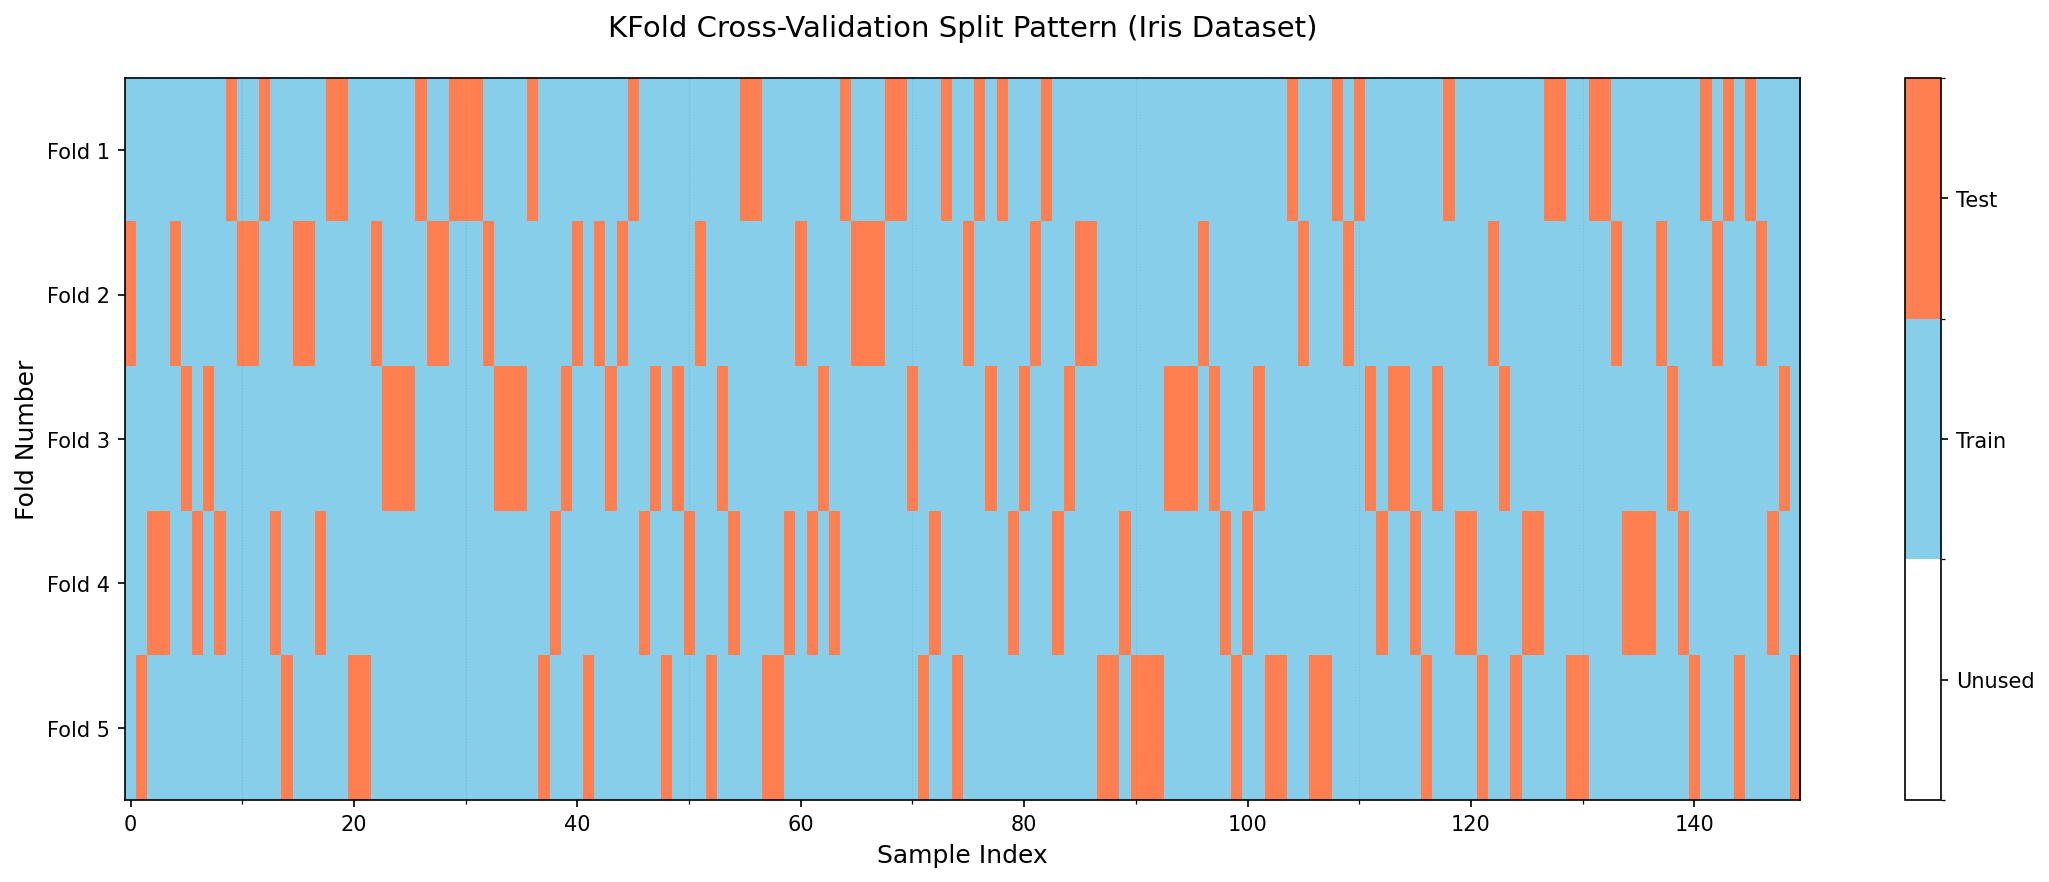
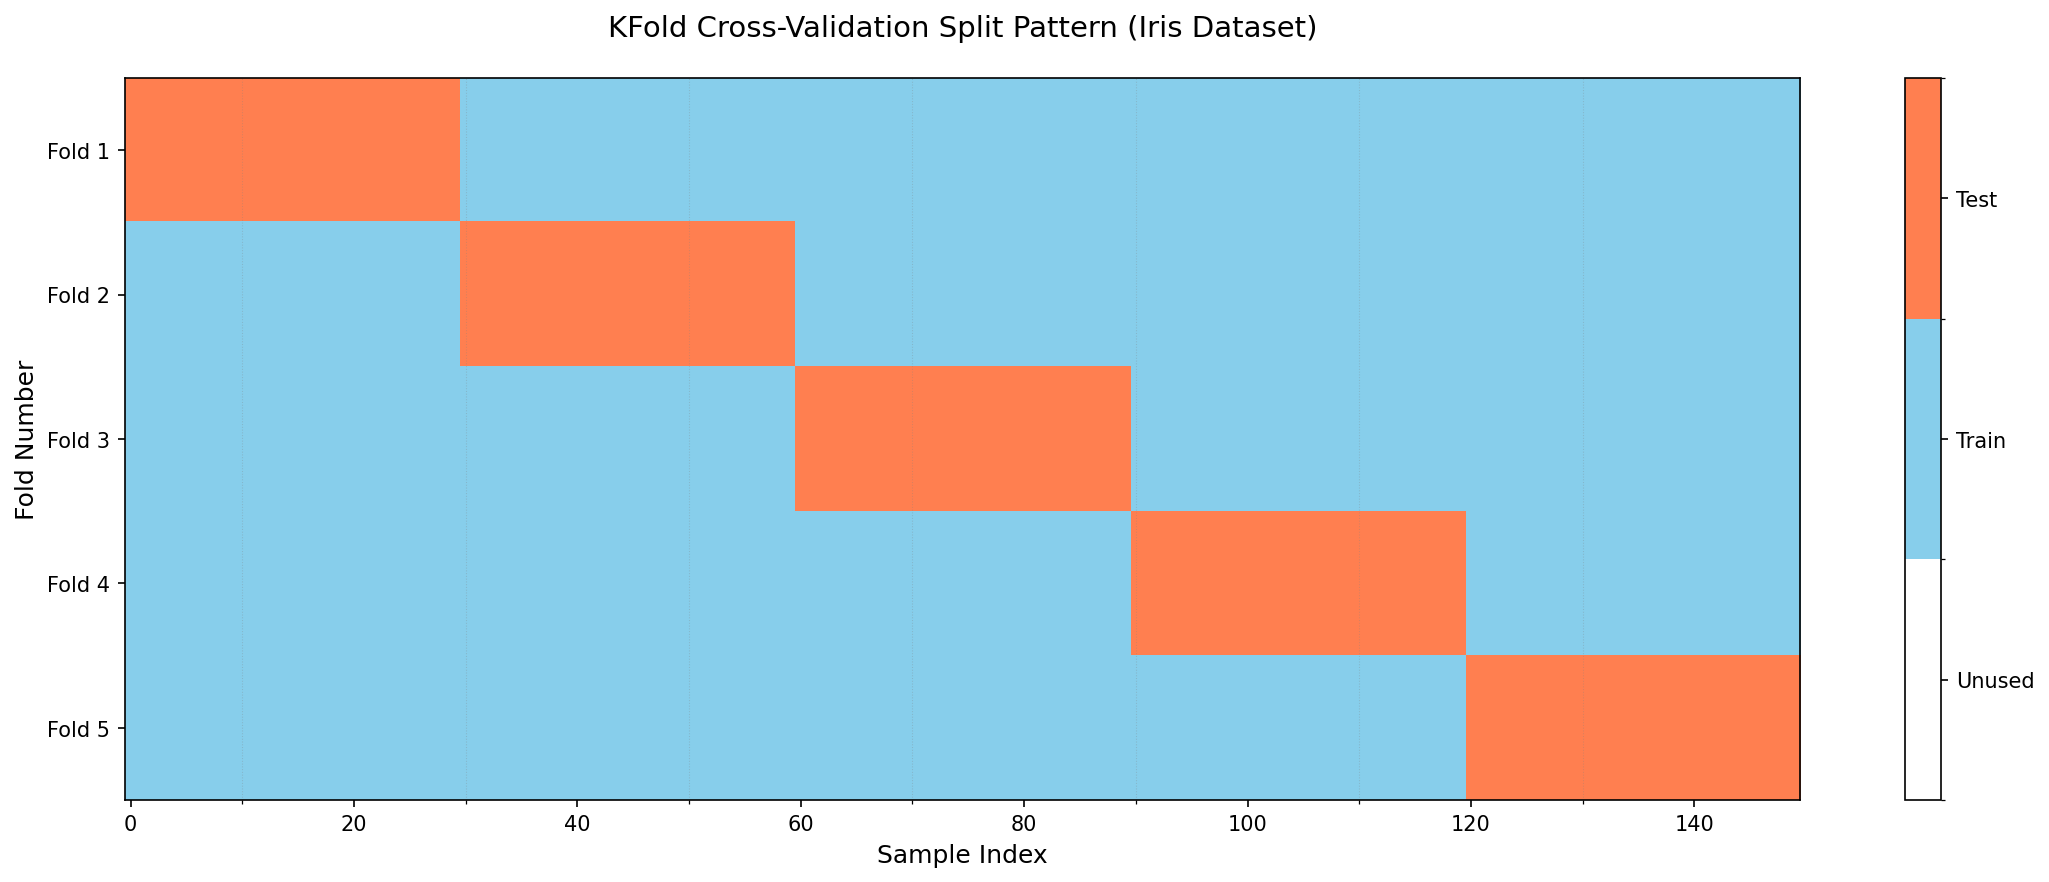
Update

Changed region(s): [[0.0625, 0.0612, 0.8746, 0.9184]]

diff --git a/groupkfold_iris.py b/groupkfold_iris.py
@@ -1,0 +1,109 @@
+import numpy as np
+import matplotlib.pyplot as plt
+from sklearn.datasets import load_iris
+from sklearn.model_selection import GroupKFold
+
+# Irisデータセットの読み込み
+iris = load_iris()
+X, y = iris.data, iris.target
+
+# グループを作成（例：各クラスをさらに細かいグループに分ける）
+# Irisは各クラス50サンプルずつなので、10個のグループを作成
+# グループサイズを変えて、GroupKFoldの振る舞いを確認
+groups = np.array([0, 0, 0, 0, 0, 1, 1, 1, 1, 1,  # 0-9
+                   2, 2, 2, 2, 2, 3, 3, 3, 3, 3,  # 10-19
+                   4, 4, 4, 4, 4, 5, 5, 5, 5, 5,  # 20-29
+                   6, 6, 6, 6, 6, 7, 7, 7, 7, 7,  # 30-39
+                   8, 8, 8, 8, 8, 9, 9, 9, 9, 9,  # 40-49
+                   # クラス1: グループサイズを変える（偏りを作る）
+                   10, 10, 10, 10, 10, 10, 10, 10, 10, 10,  # 50-59 (10サンプル)
+                   11, 11, 11, 11, 11, 11, 11, 11, 11, 11,  # 60-69 (10サンプル)
+                   12, 12, 12, 12, 12, 13, 13, 13, 13, 13,  # 70-79
+                   14, 14, 14, 14, 14, 15, 15, 15, 15, 15,  # 80-89
+                   16, 16, 16, 16, 16, 17, 17, 17, 17, 17,  # 90-99
+                   # クラス2
+                   18, 18, 18, 18, 18, 19, 19, 19, 19, 19,  # 100-109
+                   20, 20, 20, 20, 20, 21, 21, 21, 21, 21,  # 110-119
+                   22, 22, 22, 22, 22, 23, 23, 23, 23, 23,  # 120-129
+                   24, 24, 24, 24, 24, 25, 25, 25, 25, 25,  # 130-139
+                   26, 26, 26, 26, 26, 27, 27, 27, 27, 27])  # 140-149
+
+print("データセット情報:")
+print(f"総サンプル数: {len(X)}")
+print(f"ユニークなグループ数: {len(np.unique(groups))}")
+print(f"各グループのサンプル数: {np.bincount(groups)}")
+print()
+
+# GroupKFoldの設定（5分割、shuffle=False）
+print("=" * 70)
+print("GroupKFold (shuffle=False) - サンプル数でバランスされた分割")
+print("=" * 70)
+gkf_no_shuffle = GroupKFold(n_splits=5)
+
+for fold, (train_idx, test_idx) in enumerate(gkf_no_shuffle.split(X, y, groups), 1):
+    test_groups = np.unique(groups[test_idx])
+    print(f"\nFold {fold}:")
+    print(f"  訓練サンプル数: {len(train_idx)}, テストサンプル数: {len(test_idx)}")
+    print(f"  テストグループ: {test_groups}")
+    print(f"  テストグループのサンプル数: {[np.sum(groups == g) for g in test_groups]}")
+
+# GroupKFoldの設定（5分割、shuffle=True）
+print("\n" + "=" * 70)
+print("GroupKFold (shuffle=True) - ランダムにグループを分割")
+print("=" * 70)
+gkf_shuffle = GroupKFold(n_splits=5, shuffle=True, random_state=42)
+
+for fold, (train_idx, test_idx) in enumerate(gkf_shuffle.split(X, y, groups), 1):
+    test_groups = np.unique(groups[test_idx])
+    print(f"\nFold {fold}:")
+    print(f"  訓練サンプル数: {len(train_idx)}, テストサンプル数: {len(test_idx)}")
+    print(f"  テストグループ: {test_groups}")
+    print(f"  テストグループのサンプル数: {[np.sum(groups == g) for g in test_groups]}")
+
+# ビジュアライゼーション: shuffle=False vs shuffle=True
+fig, (ax1, ax2) = plt.subplots(2, 1, figsize=(15, 10))
+
+# shuffle=False
+n_samples = len(X)
+n_splits = 5
+fold_data_no_shuffle = np.zeros((n_splits, n_samples))
+
+for fold, (train_idx, test_idx) in enumerate(gkf_no_shuffle.split(X, y, groups)):
+    fold_data_no_shuffle[fold, train_idx] = 1
+    fold_data_no_shuffle[fold, test_idx] = 2
+
+cmap = plt.cm.colors.ListedColormap(['white', 'skyblue', 'coral'])
+bounds = [0, 1, 2, 3]
+norm = plt.cm.colors.BoundaryNorm(bounds, cmap.N)
+
+im1 = ax1.imshow(fold_data_no_shuffle, cmap=cmap, norm=norm, aspect='auto', interpolation='nearest')
+ax1.set_xlabel('Sample Index', fontsize=12)
+ax1.set_ylabel('Fold Number', fontsize=12)
+ax1.set_title('GroupKFold (shuffle=False) - Balanced by Sample Count', fontsize=14, pad=20)
+ax1.set_yticks(range(n_splits))
+ax1.set_yticklabels([f'Fold {i+1}' for i in range(n_splits)])
+ax1.grid(which='minor', color='gray', linestyle=':', linewidth=0.5, alpha=0.3)
+
+# shuffle=True
+fold_data_shuffle = np.zeros((n_splits, n_samples))
+
+for fold, (train_idx, test_idx) in enumerate(gkf_shuffle.split(X, y, groups)):
+    fold_data_shuffle[fold, train_idx] = 1
+    fold_data_shuffle[fold, test_idx] = 2
+
+im2 = ax2.imshow(fold_data_shuffle, cmap=cmap, norm=norm, aspect='auto', interpolation='nearest')
+ax2.set_xlabel('Sample Index', fontsize=12)
+ax2.set_ylabel('Fold Number', fontsize=12)
+ax2.set_title('GroupKFold (shuffle=True) - Random Group Assignment', fontsize=14, pad=20)
+ax2.set_yticks(range(n_splits))
+ax2.set_yticklabels([f'Fold {i+1}' for i in range(n_splits)])
+ax2.grid(which='minor', color='gray', linestyle=':', linewidth=0.5, alpha=0.3)
+
+# カラーバーの追加
+cbar = plt.colorbar(im2, ax=[ax1, ax2], ticks=[0.5, 1.5, 2.5])
+cbar.ax.set_yticklabels(['Unused', 'Train', 'Test'])
+
+plt.tight_layout()
+plt.savefig('groupkfold_comparison.png', dpi=150, bbox_inches='tight')
+print(f"\nVisualization saved as 'groupkfold_comparison.png'")
+plt.show()

diff --git a/translate_docstrings.py b/translate_docstrings.py
@@ -1,0 +1,50 @@
+"""
+_split.pyの全てのdocstringを日本語に翻訳するスクリプト
+"""
+import re
+
+# 翻訳辞書
+translations = {
+    # 一般的なフレーズ
+    "Always ignored, exists for compatibility.": "常に無視されます。互換性のために存在します。",
+    "Returns the number of splitting iterations in the cross-validator.": "交差検証器の分割イテレーション回数を返します。",
+    "Training data, where `n_samples` is the number of samples\n            and `n_features` is the number of features.": "訓練データ。`n_samples` はサンプル数、\n            `n_features` は特徴量の数です。",
+    "The target variable for supervised learning problems.": "教師あり学習問題の目的変数。",
+    "Group labels for the samples used while splitting the dataset into\n            train/test set.": "データセットを訓練/テストセットに分割する際に使用される\n            サンプルのグループラベル。",
+    "The training set indices for that split.": "その分割の訓練セットのインデックス。",
+    "The testing set indices for that split.": "その分割のテストセットのインデックス。",
+
+    # クラスdocstring
+    "Leave P Group(s) Out cross-validator.": "P個のグループを除外する交差検証器。",
+    "Repeated K-Fold cross validator.": "繰り返しK-分割交差検証器。",
+    "Repeated Stratified K-Fold cross validator.": "繰り返し層化K-分割交差検証器。",
+    "Shuffle-Group(s)-Out cross-validation iterator.": "シャッフルグループ除外交差検証イテレータ。",
+    "Stratified ShuffleSplit cross-validator.": "層化シャッフル分割交差検証器。",
+    "Predefined split cross-validator.": "事前定義された分割交差検証器。",
+
+    # パラメータの説明
+    "Number of folds. Must be at least 2.": "分割数。最低2以上である必要があります。",
+    "Whether to shuffle the data before splitting into batches.": "バッチに分割する前にデータをシャッフルするかどうか。",
+    "Number of re-shuffling & splitting iterations.": "再シャッフルと分割のイテレーション回数。",
+    "The number of samples to include in the test set.": "テストセットに含めるサンプル数。",
+    "The number of samples to include in the train set.": "訓練セットに含めるサンプル数。",
+}
+
+def translate_file(filepath):
+    """ファイルを読み込んで翻訳を適用"""
+    with open(filepath, 'r', encoding='utf-8') as f:
+        content = f.read()
+
+    # 翻訳を適用
+    for english, japanese in translations.items():
+        content = content.replace(english, japanese)
+
+    # ファイルに書き戻す
+    with open(filepath, 'w', encoding='utf-8') as f:
+        f.write(content)
+
+    print(f"翻訳完了: {filepath}")
+
+if __name__ == "__main__":
+    filepath = "/Users/siman/Programming/python/cv_sandbox/.venv/lib/python3.12/site-packages/sklearn/model_selection/_split.py"
+    translate_file(filepath)

diff --git a/visualize_kfold.py b/visualize_kfold.py
@@ -8,7 +8,7 @@ iris = load_iris()
 X, y = iris.data, iris.target
 
 # KFoldの設定（5分割）
-kfold = KFold(n_splits=5, shuffle=True, random_state=42)
+kfold = KFold(n_splits=5, shuffle=False)
 
 # ビジュアライゼーション用の準備
 n_samples = len(X)

diff --git a/README.md b/README.md
@@ -1,0 +1,31 @@
+## 全体の処理
+
+色々抽象化されているが、大体は各フォールド分けのクラスの `_iter_test_indices` で実装が行われている。なので個々の処理の確認することで大体分かる。
+
+## KFold
+
+データを n 分割するメソッド。特に難しいことはしておらず単純に N 分割するだけ。
+
+データ数が n で分割出来ないときはあまりを先頭から割り振っていく。
+
+## GroupKFold
+
+フォールド分けする際には同じ別々のフォールドに分けられると困るケースがある。
+
+同一人物から得られたデータ等でその人の特性を学習したうえで、その人のデータを推測してしまうと汎化性能を確認出来なくなってしまう。
+
+GroupKFold は shuffle の指定あり、なしで挙動が変化する
+
+### shuffle あり
+
+グループをランダムにシャッフルして
+
+### shuffle なし
+
+### 同一サイズの確認処理
+
+check_consistent_length
+
+https://github.com/scikit-learn/scikit-learn/blob/5bbbc77f97a8b362e12e4cc365ae35780cfcc3f7/sklearn/utils/validation.py#L445
+
+内部的には各配列を受け取ってそれらのサイズを計算したあとに、集合を取ってそのサイズが 1 かどうかを確認している
